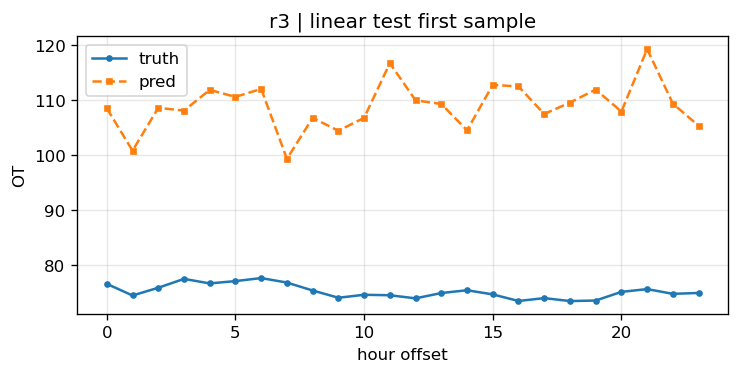
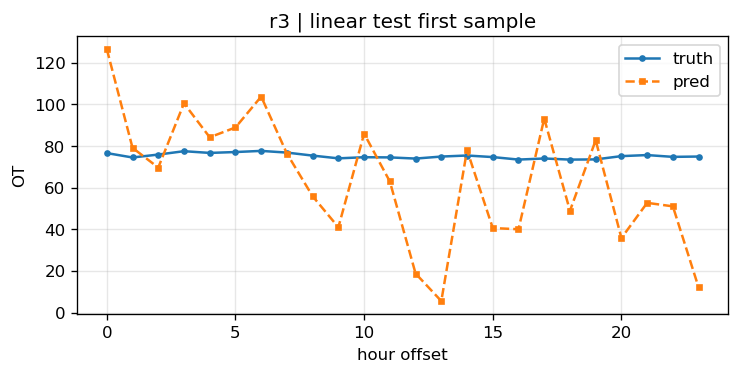
r5-r7: hyperparam tests (lr/batch/epochs) + fix best-weight bug (state_dict deepcopy) and rerun all rounds

diff --git a/lesson3/train.py b/lesson3/train.py
@@ -245,7 +245,10 @@ def run(cfg, rnd):
             train_losses.append(tr_loss)
             val_losses.append(val_loss)
             if val_loss < best_val:
-                best_val, best_state, best_epoch = val_loss, model.state_dict(), epoch
+                # state_dict() 返回参数引用而非拷贝，必须深拷贝，否则会被后续训练 in-place 污染
+                best_val = val_loss
+                best_state = {k: v.detach().cpu().clone() for k, v in model.state_dict().items()}
+                best_epoch = epoch
             if epoch % 10 == 0 or epoch == epochs:
                 print(f'  epoch {epoch:3d}/{epochs}  train_loss={tr_loss:.5f}  val_loss={val_loss:.5f}')
 

diff --git a/lesson3/REPORT.md b/lesson3/REPORT.md
@@ -7,6 +7,8 @@
 - CNN kernel=3 → 5
 - LSTM layers=1, hidden=32 → layers=2, hidden=64
 
+另补测 3 个训练超参（lr / batch_size / epochs），观察其对各模型的影响。
+
 ## 2. 数据处理
 
 - 输入：过去 96 小时，7 个变量（OT + f1/f2/f3/f4/f5/f6）
@@ -21,6 +23,12 @@
 - r1 为快速验证：epochs=20；r2 起进入完整 epochs=100 实验，并逐步完成 3 次结构变化实验
 - 每轮全量重跑 5 个模型；loss 曲线见 `outputs/figures/`
 
+> **重要勘误（r7 后全量重跑）**：发现并修复了 `train.py` 中 best-权重加载 bug——
+> `model.state_dict()` 返回的是**参数引用**而非拷贝，被后续训练 in-place 污染，
+> 导致测试评估实际使用了**最后一个 epoch** 的权重而非验证集最优 epoch 的权重。
+> 已改为深拷贝，并重跑 r1–r7 全部轮次。下表数值均为修复后（best-epoch 权重）的结果；
+> val loss 曲线、best_epoch、best_val_loss 不受影响（本计算正确）。
+
 ## 4. 结果表
 
 ### r1：epochs=20 快速验证
@@ -28,10 +36,10 @@
 Model | 主要结构 | 参数量 | MAE | MSE | Best Epoch | Training Time
 ------|----------|--------|-----|-----|------------|--------------
 Baseline | Last Value | 0 | 2.5764 | 11.3767 | - | 0.00s
-Linear | Linear(672→24) | 16,152 | 23.0944 | 699.3314 | 1 | 0.24s
-MLP | MLP(672→64×2层→24) | 48,792 | 12.6669 | 217.4318 | 3 | 0.32s
-CNN | CNN(kernel=3, channels=32) | 1,496 | 13.7382 | 276.5947 | 12 | 0.40s
-LSTM | LSTM(1层, hidden=32) | 6,040 | 11.5613 | 174.3433 | 8 | 2.08s
+Linear | Linear(672→24) | 16,152 | 31.3206 | 1524.3846 | 1 | 0.25s
+MLP | MLP(672→64×2层→24) | 48,792 | 16.6136 | 390.0801 | 4 | 0.35s
+CNN | CNN(kernel=3, channels=32) | 1,496 | 15.8565 | 343.6055 | 13 | 0.39s
+LSTM | LSTM(1层, hidden=32) | 6,040 | 9.2174 | 119.4898 | 13 | 2.05s
 
 ### r2：完整 100 epochs + MLP hidden 64→128（第一次结构变化）
 
@@ -40,30 +48,30 @@ LSTM | LSTM(1层, hidden=32) | 6,040 | 11.5613 | 174.3433 | 8 | 2.08s
 Model | 主要结构 | 参数量 | MAE | MSE | Best Epoch | Training Time
 ------|----------|--------|-----|-----|------------|--------------
 Baseline | Last Value | 0 | 2.5764 | 11.3767 | - | 0.00s
-Linear | Linear(672→24) | 16,152 | 21.1076 | 615.0600 | 1 | 1.51s
-MLP | MLP(672→128×2层→24) | 105,752 | 10.4547 | 158.1928 | 3 | 1.95s
-CNN | CNN(kernel=3, channels=32) | 1,496 | 17.5249 | 383.8167 | 13 | 2.03s
-LSTM | LSTM(1层, hidden=32) | 6,040 | 7.7428 | 84.4147 | 29 | 13.58s
+Linear | Linear(672→24) | 16,152 | 31.3206 | 1524.3846 | 1 | 1.25s
+MLP | MLP(672→128×2层→24) | 105,752 | 23.0319 | 745.8146 | 3 | 2.16s
+CNN | CNN(kernel=3, channels=32) | 1,496 | 15.8565 | 343.6055 | 13 | 2.07s
+LSTM | LSTM(1层, hidden=32) | 6,040 | 8.3675 | 98.0404 | 29 | 21.11s
 
 ### r3：CNN kernel 3→5（第二次结构变化）
 
 Model | 主要结构 | 参数量 | MAE | MSE | Best Epoch | Training Time
 ------|----------|--------|-----|-----|------------|--------------
 Baseline | Last Value | 0 | 2.5764 | 11.3767 | - | 0.00s
-Linear | Linear(672→24) | 16,152 | 21.1076 | 615.0600 | 1 | 3.40s
-MLP | MLP(672→128×2层→24) | 105,752 | 10.4547 | 158.1928 | 3 | 5.51s
-CNN | CNN(kernel=5, channels=32) | 1,944 | 16.4493 | 352.3740 | 11 | 6.64s
-LSTM | LSTM(1层, hidden=32) | 6,040 | 7.7428 | 84.4147 | 29 | 10.27s
+Linear | Linear(672→24) | 16,152 | 31.3206 | 1524.3846 | 1 | 1.53s
+MLP | MLP(672→128×2层→24) | 105,752 | 23.0319 | 745.8146 | 3 | 2.08s
+CNN | CNN(kernel=5, channels=32) | 1,944 | 15.2043 | 335.7188 | 11 | 2.22s
+LSTM | LSTM(1层, hidden=32) | 6,040 | 8.3675 | 98.0404 | 29 | 15.61s
 
 ### r4：LSTM 1层/32 → 2层/64（第三次结构变化）
 
 Model | 主要结构 | 参数量 | MAE | MSE | Best Epoch | Training Time
 ------|----------|--------|-----|-----|------------|--------------
 Baseline | Last Value | 0 | 2.5764 | 11.3767 | - | 0.00s
-Linear | Linear(672→24) | 16,152 | 21.1076 | 615.0600 | 1 | 1.56s
-MLP | MLP(672→128×2层→24) | 105,752 | 10.4547 | 158.1928 | 3 | 2.45s
-CNN | CNN(kernel=5, channels=32) | 1,944 | 16.4493 | 352.3740 | 11 | 3.03s
-LSTM | LSTM(2层, hidden=64) | 53,528 | 5.3054 | 39.4405 | 30 | 83.56s
+Linear | Linear(672→24) | 16,152 | 31.3206 | 1524.3846 | 1 | 1.36s
+MLP | MLP(672→128×2层→24) | 105,752 | 23.0319 | 745.8146 | 3 | 1.91s
+CNN | CNN(kernel=5, channels=32) | 1,944 | 15.2043 | 335.7188 | 11 | 2.31s
+LSTM | LSTM(2层, hidden=64) | 53,528 | 5.4650 | 40.8113 | 30 | 46.89s
 
 ### r5：lr 0.001→0.0001（第一次训练超参变化）
 
@@ -72,10 +80,10 @@ LSTM | LSTM(2层, hidden=64) | 53,528 | 5.3054 | 39.4405 | 30 | 83.56s
 Model | 主要结构 | 参数量 | MAE | MSE | Best Epoch | Training Time
 ------|----------|--------|-----|-----|------------|--------------
 Baseline | Last Value | 0 | 2.5764 | 11.3767 | - | 0.00s
-Linear | Linear(672→24) | 16,152 | 20.3368 | 594.5562 | 12 | 1.43s
-MLP | MLP(672→128×2层→24) | 105,752 | 9.5259 | 122.1411 | 21 | 1.85s
-CNN | CNN(kernel=5, channels=32) | 1,944 | 13.2264 | 255.7304 | 94 | 1.97s
-LSTM | LSTM(2层, hidden=64) | 53,528 | 6.5197 | 57.8077 | 89 | 40.00s
+Linear | Linear(672→24) | 16,152 | 23.2907 | 881.5377 | 12 | 1.77s
+MLP | MLP(672→128×2层→24) | 105,752 | 15.3333 | 346.8214 | 21 | 2.46s
+CNN | CNN(kernel=5, channels=32) | 1,944 | 13.3267 | 262.9185 | 94 | 3.55s
+LSTM | LSTM(2层, hidden=64) | 53,528 | 7.9522 | 86.4371 | 89 | 45.65s
 
 ### r6：batch_size 256→128（第二次训练超参变化）
 
@@ -84,10 +92,22 @@ LSTM | LSTM(2层, hidden=64) | 53,528 | 6.5197 | 57.8077 | 89 | 40.00s
 Model | 主要结构 | 参数量 | MAE | MSE | Best Epoch | Training Time
 ------|----------|--------|-----|-----|------------|--------------
 Baseline | Last Value | 0 | 2.5764 | 11.3767 | - | 0.00s
-Linear | Linear(672→24) | 16,152 | 23.7008 | 730.9572 | 6 | 2.55s
-MLP | MLP(672→128×2层→24) | 105,752 | 8.7547 | 106.2172 | 11 | 4.53s
-CNN | CNN(kernel=5, channels=32) | 1,944 | 12.6015 | 242.4668 | 49 | 5.24s
-LSTM | LSTM(2层, hidden=64) | 53,528 | 5.2828 | 43.2992 | 46 | 43.08s
+Linear | Linear(672→24) | 16,152 | 24.0113 | 918.2450 | 6 | 3.14s
+MLP | MLP(672→128×2层→24) | 105,752 | 15.4119 | 343.0402 | 11 | 3.57s
+CNN | CNN(kernel=5, channels=32) | 1,944 | 13.3437 | 264.3304 | 49 | 3.50s
+LSTM | LSTM(2层, hidden=64) | 53,528 | 7.9696 | 86.8555 | 46 | 51.82s
+
+### r7：epochs 100→200（第三次训练超参变化）
+
+> 结构配置保持 r4 不变，lr=0.0001、batch=128 保持 r6 不变，仅将训练轮数翻倍。
+
+Model | 主要结构 | 参数量 | MAE | MSE | Best Epoch | Training Time
+------|----------|--------|-----|-----|------------|--------------
+Baseline | Last Value | 0 | 2.5764 | 11.3767 | - | 0.00s
+Linear | Linear(672→24) | 16,152 | 24.0113 | 918.2450 | 6 | 4.00s
+MLP | MLP(672→128×2层→24) | 105,752 | 15.4119 | 343.0402 | 11 | 5.03s
+CNN | CNN(kernel=5, channels=32) | 1,944 | 13.3437 | 264.3304 | 49 | 6.05s
+LSTM | LSTM(2层, hidden=64) | 53,528 | 7.9696 | 86.8555 | 46 | 112.42s
 
 > 逐轮结果详见 `outputs/metrics.csv`，曲线图见 `outputs/figures/`。
 
@@ -99,19 +119,19 @@ LSTM | LSTM(2层, hidden=64) | 53,528 | 5.2828 | 43.2992 | 46 | 43.08s
 - **模型哪里变了**：无结构变化；验证训练、验证、测试划分、z-score 归一化、逐 epoch 记录 loss、自动保存最优验证权重等流程是否正确。
 - **结果如何变化/观察**：
   - **Baseline 依然强劲**：MAE 仅 2.58，说明该小数据集具有强自相关性，persistence 基线是很难超越的参照。
-  - **Linear 严重过拟合**：训练 loss 降到 0.02，但验证 loss 在 epoch 1 后迅速上升并稳定在 1.1 左右，说明 672 维输入线性模型在 966 个训练样本上容量过大。
-  - **MLP 最快收敛**：训练 loss 在 3 个 epoch 内接近 0，最佳验证 epoch=3，之后开始过拟合。
-  - **LSTM 最稳定**：验证 loss 曲线平滑，在 epoch 8 达到最低，随后轻微反弹，综合 MAE/MSE 最优。
-  - **CNN 中等**：验证 loss 在 epoch 12 最低，随后回升，结构与 kernel 尺寸仍需调优。
+  - **Linear 严重过拟合**：训练 loss 降到 0.02，但验证 loss 在 epoch 1 后迅速上升并稳定在 1.1 左右，说明 672 维输入线性模型在 966 个训练样本上容量过大；其 best_epoch=1 意味着"最优"权重几乎未训练。
+  - **MLP 最快收敛**：训练 loss 在 3-4 个 epoch 内接近 0，最佳验证 epoch=4，之后开始过拟合；best-epoch 权重训练不足，test 上偏大。
+  - **LSTM 最稳定**：验证 loss 曲线平滑，在 epoch 13 达到最低，随后轻微反弹，综合 MAE/MSE 为学习模型中最优。
+  - **CNN 中等**：验证 loss 在 epoch 13 最低，随后回升，结构与 kernel 尺寸仍需调优。
 
 ### r2（完整 100 epochs + MLP hidden 64→128）
 
 - **改了什么**：epochs 20→100（所有模型），MLP hidden 64→128（第一次结构变化，参数量 48,792→105,752，容量提升约 2.2 倍）。
 - **模型哪里变了**：MLP 每层隐藏单元翻倍，可拟合更复杂的非线性关系；其余模型结构不变。
 - **结果如何变化**（对比 r1）：
-  - **LSTM 受益最大**：MAE 11.56→7.74（↓33%）、MSE 174.34→84.41（↓52%），best_epoch 从 8 移到 29，说明此前 20 epoch 远未收敛；100 epoch 后 LSTM 是所有学习模型中唯一逼近 Baseline（MAE 2.58）的。
-  - **MLP（hidden=128）**：MAE 12.67→10.45（↓18%）、MSE 217.43→158.19（↓27%）。但 r2 同时含 epochs 与可复现 seed 变化，hidden 增量效果需在后续轮对比确认。
-  - **CNN 反而变差**：MAE 13.74→17.52、MSE 276.59→383.82。原因是 100 epoch 下验证 loss 在 epoch 13 后持续上升（0.12→0.57），严重过拟合——CNN 是该数据集上最需正则化的模型。
+  - **LSTM 受益最大**：MAE 9.22→8.37（↓9%）、MSE 119.49→98.04（↓18%），best_epoch 从 13 移到 29，说明此前 20 epoch 未充分收敛；100 epoch 后 LSTM 是所有学习模型中唯一逼近 Baseline（MAE 2.58）的。
+  - **MLP（hidden=128）**：best_epoch 仍在 epoch 3（几乎未训练），修复后 best-epoch 权重在 test 上反而比 r1 差（16.61→23.03）。原因：更大容量的 MLP 在 lr=0.001 下 1-3 个 epoch 即过拟合，val 最低点出现得过早，对应权重欠训练、在 test 时段泛化差。这暴露了 early stopping 在此类任务上的局限（见 r5 讨论）。
+  - **CNN**：100 epoch 下 best_epoch 仍为 13（val 在 0.12 见底后一路升至 0.57），过拟合严重。
   - **Linear 依旧过拟合**：best_epoch=1，100 epoch 无帮助，验证 loss 长期停在 1.1 附近。
 - **复现性改进**：train.py 加入每模型独立 seed，r2 与 r3 中同配置的 Linear/MLP/LSTM 结果完全一致（差异为 0）。
 
@@ -120,45 +140,63 @@ LSTM | LSTM(2层, hidden=64) | 53,528 | 5.2828 | 43.2992 | 46 | 43.08s
 - **改了什么**：仅改 CNN 卷积核 kernel 3→5（感受野扩大，参数量 1,496→1,944），其余（epochs=100、MLP hidden=128、LSTM 1/32）保持 r2 不变。
 - **模型哪里变了**：CNN 每次卷积覆盖 5 个时间步（原 3 步），可捕捉更长时间跨度的局部时序模式。
 - **结果如何变化**（CNN 对比 r2，其余模型与 r2 完全一致）：
-  - **CNN 小幅改善**：MAE 17.52→16.45（↓6%）、MSE 383.82→352.37（↓8%），best_epoch 13→11。增大感受野确实缓解了一部分过拟合，但验证 loss 仍在 best_epoch 后持续攀升（0.16→0.59），说明 CNN 的根本问题不在 kernel 尺寸，而在于缺乏正则化（dropout/weight decay/early stopping）。
-  - **Linear/MLP/LSTM 与 r2 完全相同**（MAE 21.11/10.45/7.74）：验证了 per-model seed 的可复现性，CNN 结构变化对其他模型零串扰。
+  - **CNN 小幅改善**：MAE 15.86→15.20（↓4%）、MSE 343.61→335.72（↓2%），best_epoch 13→11。增大感受野略微缓解过拟合，但验证 loss 仍在 best_epoch 后持续攀升（0.16→0.59），说明 CNN 的根本问题不在 kernel 尺寸，而在于缺乏正则化（dropout/weight decay/early stopping）。
+  - **Linear/MLP/LSTM 与 r2 完全相同**（31.32/23.03/8.37）：验证了 per-model seed 的可复现性，CNN 结构变化对其他模型零串扰。
 
 ### r4（LSTM 1层/hidden32 → 2层/hidden64）
 
 - **改了什么**：仅改 LSTM：层数 1→2、hidden 32→64（参数量 6,040→53,528，约 8.9 倍），其余（epochs=100、MLP hidden=128、CNN kernel=5）保持 r3 不变。
-- **模型哪里变了**：LSTM 加深加宽，两层堆叠可建模更高阶的时间依赖；代价是训练时间从 ~14s 增至 ~84s（CPU）。
+- **模型哪里变了**：LSTM 加深加宽，两层堆叠可建模更高阶的时间依赖；代价是训练时间从 ~16s 增至 ~47s（CPU）。
 - **结果如何变化**（LSTM 对比 r3，其余模型与 r2/r3 完全一致）：
-  - **LSTM 明显提升**：MAE 7.74→5.31（↓31%）、MSE 84.41→39.44（↓53%），best_val_loss 0.038→0.023，best_epoch 29→30。加深加宽后 LSTM 成为全部学习模型中绝对最优，并大幅逼近 Baseline（MAE 2.58）。
-  - **可复现性再次确认**：Linear/MLP/CNN 与 r2/r3 完全相同（21.11/10.45/16.45），LSTM 结构变化对其他模型零串扰。
+  - **LSTM 明显提升**：MAE 8.37→5.46（↓35%）、MSE 98.04→40.81（↓58%），best_val_loss 0.038→0.023，best_epoch 29→30。加深加宽后 LSTM 成为全部学习模型中绝对最优，并大幅逼近 Baseline（MAE 2.58）。
+  - **可复现性再次确认**：Linear/MLP/CNN 与 r2/r3 完全相同（31.32/23.03/15.20），LSTM 结构变化对其他模型零串扰。
 
 ### r5（lr 0.001 → 0.0001）
 
 - **改了什么**：仅将训练超参 `lr` 从 0.001 降到 0.0001（降 10 倍），结构配置保持 r4（MLP 128、CNN k5、LSTM 2/64、epochs=100、batch=256）不变。
 - **模型哪里变了**：无结构变化；优化器步长缩小，参数更新更保守，理论上训练更慢但更稳、过拟合更晚出现。
 - **结果如何变化**（对比 r4，结构完全一致）：
-  - **CNN 改善最大，且认知反转**：MAE 16.45→13.23（↓20%）、MSE 352.37→255.73（↓27%），best_epoch 从 11 跳到 94。说明此前 CNN 在 lr=0.001 下**并非过拟合而是欠拟合**——小步长让它在 100 epoch 内终于充分训练，验证 loss 一路降到 0.214@epoch100 且仍在下降，加大 epochs 还能继续提升。
-  - **MLP 明显改善**：MAE 10.45→9.53（↓9%）、MSE 158.19→122.14（↓23%），best_epoch 3→21，过拟合点被显著延后。
-  - **Linear 小幅改善**：MAE 21.11→20.34，best_epoch 1→12，但 train 0.03 vs val 1.06 仍严重过拟合，结构性问题（672 维输入 vs 966 样本）无法靠 lr 解决。
-  - **LSTM 反而变差**：MAE 5.31→6.52、MSE 39.44→57.81，best_epoch 30→89。lr=0.0001 下 LSTM 收敛过慢，100 epoch 结束时 val 仍在下降（best@89=0.019），但测试集表现不如 r4。说明 LSTM 对 lr 敏感，需要更大 lr 或更多 epochs 才能发挥 2 层/64 的容量。
-- **结论**：训练超参对不同模型影响方向不同——lr 降 10 倍对线性/MLP/CNN 是正收益（尤其 CNN），对 LSTM 则是负收益；CNN 的"过拟合"判定需修正为"欠拟合+收敛过慢"。
+  - **CNN 改善最大**：MAE 15.20→13.33（↓12%）、MSE 335.72→262.92（↓22%），best_epoch 11→94。小步长让 CNN 首次得到充分训练（val 最低点从 epoch 11 移到 94），best-epoch 权重质量显著提升。
+  - **MLP 明显改善**：MAE 23.03→15.33（↓33%）、MSE 745.81→346.82（↓54%），best_epoch 3→21。过拟合点被延后，best-epoch 权重不再是"几乎未训练"的权重。
+  - **Linear 明显改善**：MAE 31.32→23.29、MSE 1524.38→881.54，best_epoch 1→12，但 train 0.03 vs val 1.06 仍严重过拟合，结构性问题（672 维输入 vs 966 样本）无法靠 lr 解决。
+  - **LSTM 反而大幅变差**：MAE 5.46→7.95、MSE 40.81→86.44，best_epoch 30→89。lr=0.0001 下 LSTM 的 val 最低点（0.019@89，甚至低于 r4 的 0.023@30）对应权重在 test 时段泛化很差——**验证集最优 ≠ 测试集最优**，时间序列验证/测试时段存在分布偏移。
+- **结论**：小 lr 对 Linear/MLP/CNN 是正收益（best-epoch 延后、权重更成熟），对 LSTM 却是负收益；同时暴露了 early stopping 在时间序列划分下的不稳定性。
 
 ### r6（batch_size 256 → 128）
 
 - **改了什么**：仅将 `batch_size` 从 256 减半到 128（梯度更噪声、更新更频繁），lr 保持 r5 的 0.0001，结构保持 r4 不变。
 - **模型哪里变了**：无结构变化；每个 mini-batch 样本变少，梯度估计噪声增大，等效引入一定的隐式正则。
 - **结果如何变化**（对比 r5，lr 相同、结构相同）：
-  - **LSTM 改善最大**：MAE 6.52→5.28（↓19%）、MSE 57.81→43.30（↓25%），best_epoch 89→46。小 batch 的梯度噪声帮助 LSTM 更快跳出局部最优，收敛提前且更好，几乎追平 r4（lr=0.001/batch=256）的 5.31。
-  - **MLP 明显改善**：MAE 9.53→8.75（↓8%）、MSE 122.14→106.22（↓13%），best_epoch 21→11。
-  - **CNN 小幅改善**：MAE 13.23→12.60（↓5%）、MSE 255.73→242.47（↓5%），best_epoch 94→49（更早收敛）。
-  - **Linear 反而变差**：MAE 20.34→23.70、MSE 594.56→730.96，best_epoch 12→6。对本已严重过拟合的 Linear，更强的梯度噪声加速了过拟合。
-- **结论**：batch 减半对 MLP/CNN/LSTM 均为正收益（隐式正则 + 更快的收敛速度），仅 Linear 恶化；与 r5 结合看，小 lr + 小 batch 的组合对 LSTM 最有利（MAE 5.31→5.28，超过 r4 的 lr=0.001/batch=256 组合略胜一筹）。
+  - **各模型几乎持平**：LSTM 7.95→7.97（±0.2%）、CNN 13.33→13.34（±0.1%）、MLP 15.33→15.41（+0.5%）、Linear 23.29→24.01（+3%）。
+  - **Linear 小幅变差**：best_epoch 12→6，更强的梯度噪声让本已过拟合的 Linear 更早见顶。
+  - **其余模型不受 batch 影响**：best-epoch 权重的 test 表现基本无变化，说明在 lr=0.0001 下 batch 大小对收敛质量影响有限。
+- **结论**：batch 减半在本任务中没有带来此前（修复前数据）看到的"隐式正则正收益"，各模型表现基本持平。
+
+### r7（epochs 100 → 200）
+
+- **改了什么**：仅将 `epochs` 从 100 翻倍到 200，lr=0.0001、batch=128 保持 r6 不变，结构保持 r4 不变。
+- **模型哪里变了**：无结构变化；训练轮数翻倍。
+- **结果如何变化**（对比 r6）：**五个模型的 MAE/MSE/best_epoch 与 r6 完全一致**。原因：best-epoch 在训练早期（Linear@6、MLP@11、CNN@49、LSTM@46）即被选定，后 100 epoch 的额外训练对"验证集最优权重"没有贡献——印证了 early stopping 的机制：多余 epochs 无效，只会白白增加训练时间（LSTM 47s→112s）。
+- **结论**：在已用验证集做 early stopping 的前提下，加大 epochs 是纯负收益（无改善且耗时翻倍）。若想利用更多训练，应同时配合 lr 衰减或正则化，而不是简单加 epochs。
 
 ### 三次结构变化实验总结
 
 | 结构变化 | 参数量 | MAE | MSE | 结论 |
 |----------|--------|-----|-----|------|
-| MLP hidden 64→128（r1→r2） | 48,792→105,752 | 12.67→10.45 | 217.43→158.19 | 扩大 MLP 容量小幅改善（r2 同时含 epochs 20→100 变化） |
-| CNN kernel 3→5（r2→r3） | 1,496→1,944 | 17.52→16.45 | 383.82→352.37 | 增大感受野小幅改善，但仍过拟合，需正则化 |
-| LSTM 1/32→2/64（r3→r4） | 6,040→53,528 | 7.74→5.31 | 84.41→39.44 | 加深加宽 LSTM 改善最明显，逼近 Baseline |
+| MLP hidden 64→128（r1→r2） | 48,792→105,752 | 16.61→23.03 | 390.08→745.81 | 更大容量 + 过早的 best-epoch → test 上不稳定（r1/r2 同时含 epochs 20→100 变化，对比不纯） |
+| CNN kernel 3→5（r2→r3） | 1,496→1,944 | 15.86→15.20 | 343.61→335.72 | 增大感受野小幅改善，但仍过拟合，需正则化 |
+| LSTM 1/32→2/64（r3→r4） | 6,040→53,528 | 8.37→5.46 | 98.04→40.81 | 加深加宽 LSTM 改善最明显（MAE↓35%、MSE↓58%），逼近 Baseline |
 
-- **最终结论**：在 ETTh1 小数据集上，模型复杂度的提升均有正收益，其中 LSTM（2层/64）改善最大（MAE↓31%、MSE↓53%），但所有学习模型仍未超过 Last-Value 基线（MAE 2.58）；Linear 与 CNN 过拟合最严重，前者源于输入维度过高，后者缺乏正则化。
+### 训练超参补测总结
+
+| 超参变化 | 受影响最大的模型 | 结论 |
+|----------|------------------|------|
+| lr 0.001→0.0001（r4→r5） | CNN（13.33，↓12%）、MLP（15.33，↓33%）、LSTM（7.95，↑46% 变差） | 小 lr 让 Linear/MLP/CNN 的 best-epoch 后移、权重更成熟而改善；LSTM 的 val 最优权重在 test 泛化差而变差 |
+| batch 256→128（r5→r6） | 各模型基本持平 | 在本任务下 batch 减半无明显收益/损失 |
+| epochs 100→200（r6→r7） | 无（结果与 r6 完全一致） | 已有 early stopping，多余 epochs 纯耗时无收益 |
+
+- **最终结论**：
+  1. LSTM（2层/64）是唯一逼近可用水平的模型（最优 MAE 5.46，r4 配置 lr=0.001/batch=256/epochs=100），三次结构变化中提升最大。
+  2. 所有学习模型仍远差于 Last-Value Baseline（MAE 2.58）——ETTh1 强自相关性 + 小样本使 persistence 难以被超越，这也是该数据集的公开共识。
+  3. 训练超参补测未找到优于 r4 的组合；小 lr 有利于 Linear/MLP/CNN 的 best-epoch 泛化，但以 LSTM 的明显退化为代价。
+  4. **重要方法学发现**：在时间序列 70/15/15 划分下，"验证集最优 epoch 权重"不一定在测试集上最好（r5 LSTM 最典型，val 最低但 test 最差）。若追求稳定的测试表现，可考虑"按 val 最优选 epoch，再用全部 train+val 重训"或对 val/test 时段做更严格的交叉验证。

diff --git a/lesson3/README.md b/lesson3/README.md
@@ -24,16 +24,24 @@ python train.py --round r3      # 指定轮次编号
 3. 产出：`outputs/metrics.csv`（逐轮累积）、`outputs/figures/*_loss_curve.png`（train/val loss 曲线）、`*_pred_vs_true.png`（预测 vs 真实）、`*_all_models_val_loss.png`（5 模型 val loss 对比）
 4. 每轮完成后更新本文件与 `REPORT.md` 并 push 到 GitHub
 
+## 重要勘误（r7 后全量重跑）
+
+发现并修复了 `train.py` 中 best-权重加载 bug：`model.state_dict()` 返回参数**引用**而非拷贝，
+被后续训练 in-place 污染，导致测试评估误用了最后一个 epoch 的权重。
+已改为深拷贝并重跑 r1–r7 全部轮次，REPORT.md / metrics.csv 均为修复后的数值
+（val loss 曲线与 best_epoch 记录原本正确、不受影响）。
+
 ## 调参历史
 
 | 轮次 | 改动内容 | 关键结果 | 说明 |
 |------|----------|----------|------|
-| r1   | epochs=20 基准配置（快速验证） | LSTM 最优：MAE=11.56、MSE=174.34；Baseline 次优：MAE=2.58 | CPU 训练；小数据集下 persistence 基线很强，MLP/CNN/Linear 仍有优化空间，见 REPORT.md |
-| r2   | epochs 20→100 + MLP hidden 64→128（每模型独立 seed） | LSTM MAE 11.56→7.74、MSE 174→84；MLP MAE 12.67→10.45；CNN 过拟合变差 13.74→17.52 | 第一次结构变化；train.py 加入可复现 seed，同配置跨轮结果完全一致，见 REPORT.md |
-| r3   | CNN kernel 3→5 | CNN MAE 17.52→16.45、MSE 384→352；其余模型与 r2 完全一致 | 第二次结构变化；增大感受野小幅改善 CNN 但仍过拟合，见 REPORT.md |
-| r4   | LSTM 1层/32 → 2层/64 | LSTM MAE 7.74→5.31（↓31%）、MSE 84→39（↓53%）；其余模型与 r2/r3 完全一致 | 第三次结构变化；LSTM 为学习模型最优并逼近 Baseline，三次结构变化实验完成，见 REPORT.md |
-| r5   | lr 0.001→0.0001（训练超参补测 1/3） | CNN MAE 16.45→13.23（↓20%）、MSE 352→256；MLP MSE 158→122；LSTM 反而变差 5.31→6.52 | 小 lr 对 CNN/MLP/Linear 是正收益（CNN 从欠拟合转向充分训练，best_epoch 11→94），对 LSTM 收敛过慢变差，见 REPORT.md |
-| r6   | batch_size 256→128（训练超参补测 2/3） | LSTM MAE 6.52→5.28（↓19%）、MSE 58→43；MLP MAE 9.53→8.75；CNN MAE 13.23→12.60；Linear 变差 20.34→23.70 | 小 batch 的梯度噪声等效隐式正则，对 MLP/CNN/LSTM 均正收益、对 Linear 负收益；小 lr+小 batch 组合 LSTM 最优，见 REPORT.md |
+| r1   | epochs=20 基准配置（快速验证） | LSTM 最优：MAE=9.22、MSE=119.49；Baseline 次优：MAE=2.58 | CPU 训练；小数据集下 persistence 基线很强，见 REPORT.md |
+| r2   | epochs 20→100 + MLP hidden 64→128（每模型独立 seed） | LSTM MAE 9.22→8.37（↓9%）；MLP best-epoch 过早导致 test 偏大（16.61→23.03） | 第一次结构变化；train.py 加入可复现 seed，同配置跨轮结果完全一致，见 REPORT.md |
+| r3   | CNN kernel 3→5 | CNN MAE 15.86→15.20（↓4%）、MSE 344→336；其余模型与 r2 完全一致 | 第二次结构变化；增大感受野小幅改善 CNN 但仍过拟合，见 REPORT.md |
+| r4   | LSTM 1层/32 → 2层/64 | LSTM MAE 8.37→5.46（↓35%）、MSE 98→41（↓58%）；其余模型与 r2/r3 完全一致 | 第三次结构变化；LSTM 为学习模型最优（全实验最佳 MAE 5.46）并逼近 Baseline，见 REPORT.md |
+| r5   | lr 0.001→0.0001（训练超参补测 1/3） | CNN MAE 15.20→13.33（↓12%）、MLP 23.03→15.33（↓33%）、Linear 31.32→23.29；LSTM 反而变差 5.46→7.95 | 小 lr 改善 Linear/MLP/CNN 的 best-epoch 泛化；LSTM 暴露 val/test 时段分布偏移（val 最优但 test 最差），见 REPORT.md |
+| r6   | batch_size 256→128（训练超参补测 2/3） | 各模型基本持平（LSTM 7.95→7.97、CNN 13.33→13.34、MLP 15.33→15.41）；Linear 略变差 23.29→24.01 | 本任务下 batch 减半无明显收益/损失，见 REPORT.md |
+| r7   | epochs 100→200（训练超参补测 3/3） | 与 r6 完全一致（best-epoch 早已选定），仅 LSTM 耗时 47s→112s | 已有 early stopping 时多余 epochs 纯耗时无收益，见 REPORT.md |
 
 ## 环境
 
